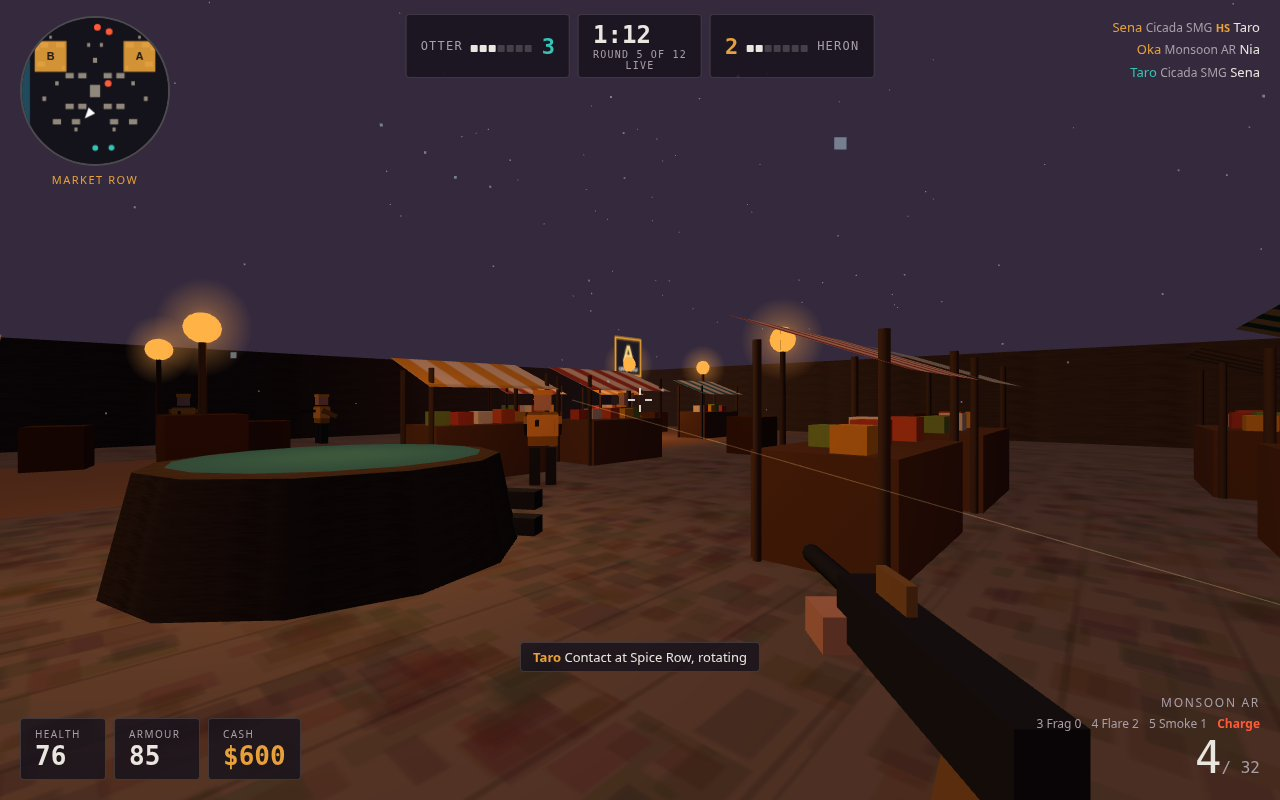
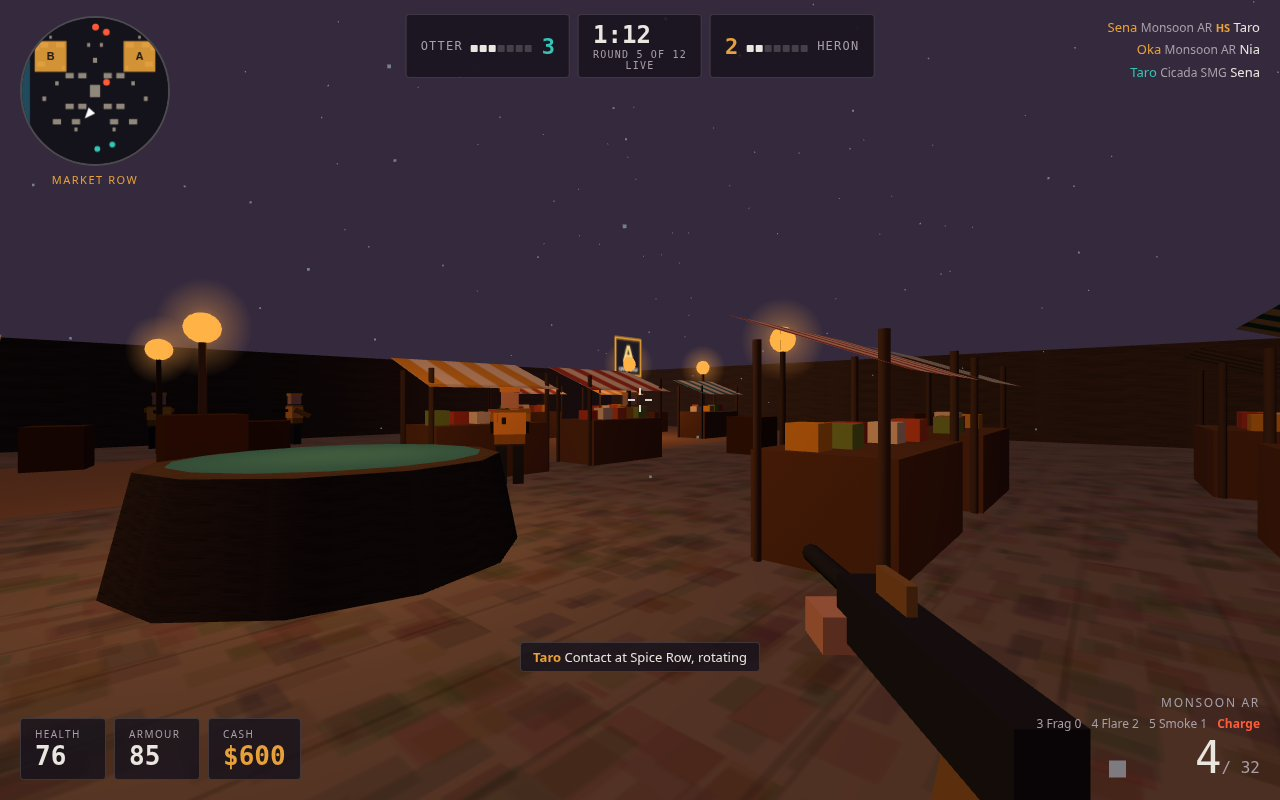
Fixes from play-testing: smaller viewmodel, bot accuracy tune, pause freeze, pointer-lock guard
- Viewmodel scaled to 0.62 so the gun no longer dominates the frame
- Bot aim error raised (0.016 -> 0.030 base) and burst pause lengthened:
  bots were melting the player in ~2 s at close range
- Losing pointer lock mid-round now freezes the sim (was: player could
  be shot while reading the pause screen)
- requestPointerLock promise rejection is caught (headless/iframe noise)
- ?fast=1 debug flag shortens buy/round clocks for headless play-tests

diff --git a/game/src/main.js b/game/src/main.js
@@ -13,8 +13,12 @@ import { WEAPONS } from './weapons.js';
 const params = new URLSearchParams(location.search);
 const seed = Number(params.get('seed') || '1');
 const shot = params.get('shot') || null;
+// Debug flag for headless play-tests: ?fast=1 shortens the buy phase and the
+// round clock so a full round can be observed in seconds.
+const FAST = params.get('fast') === '1';
 
 const state = createState(seed);
+if (FAST) { state.buyTime = 3; state.roundTime = 10; }
 state.staged = shot;
 const input = createInput();
 const renderer = new Renderer(document.getElementById('game'), state);
@@ -161,15 +165,24 @@ if (shot) stageShot(shot);
 // --- the loop ----------------------------------------------------------------
 let last = performance.now();
 let acc = 0;
+let hadLock = false;
 
 function frame(now) {
   requestAnimationFrame(frame);
   let dt = (now - last) / 1000;
   last = now;
   if (dt > 0.25) dt = 0.25;
+  if (input.locked) hadLock = true;
+  // Pause the sim when pointer lock is lost mid-round (Esc): the player
+  // should not be shot while reading the pause screen. The lock is only
+  // expected after the player has had it once, so the title screen and the
+  // buy phase before the first lock are not frozen.
+  const paused = !state.staged && hadLock && !input.locked
+    && (state.phase === 'live' || state.phase === 'buy')
+    && document.getElementById('title-screen').hidden;
   // Once a staged shot is ready the sim freezes, so the capture shows the
   // staged numbers instead of another half-second of bot fire.
-  if (!readySet) acc += dt;
+  if (!readySet && !paused) acc += dt;
 
   // Fixed steps.
   while (acc >= DT) {
@@ -214,10 +227,8 @@ function frame(now) {
     prevRound = state.round;
   }
 
-  // Pause when pointer lock is lost mid-round (real play only, never staged).
-  if (!state.staged && state.phase === 'live' && !input.locked && document.getElementById('title-screen').hidden) {
-    document.getElementById('pause').hidden = false;
-  }
+  // Show the pause screen while the sim is frozen for a lost lock.
+  document.getElementById('pause').hidden = !paused;
 
   renderer.sync(state, dt, state.time);
   updateHUD(state, input);

diff --git a/game/src/input.js b/game/src/input.js
@@ -41,5 +41,12 @@ export function createInput() {
 
 export function requestLock() {
   const el = document.body;
-  if (el.requestPointerLock) el.requestPointerLock();
+  if (el.requestPointerLock) {
+    // Newer Chrome returns a promise; swallow a denial (headless, iframe)
+    // instead of leaving an uncaught rejection in the console.
+    try {
+      const r = el.requestPointerLock();
+      if (r && r.catch) r.catch(() => {});
+    } catch (e) { /* pointer lock unavailable */ }
+  }
 }
